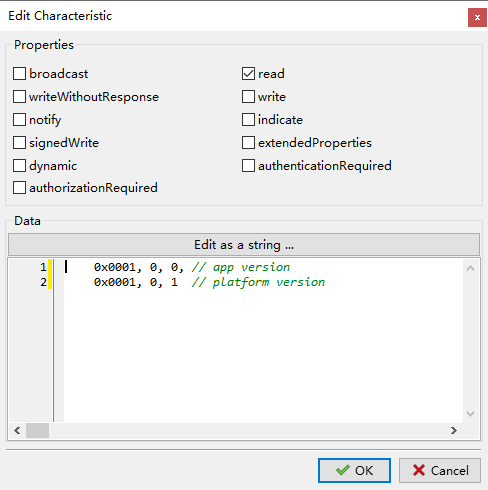
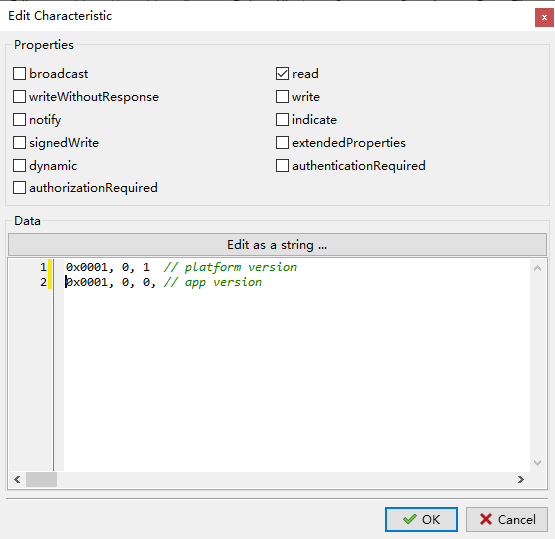
update

Changed region(s): [[0.0, 0.0, 1.0, 1.0], [0.4918, 0.1224, 0.7992, 0.3673], [0.9529, 0.0, 1.0, 0.0612]]

diff --git a/blog/fota_demo_zh/index.html b/blog/fota_demo_zh/index.html
@@ -257,39 +257,29 @@
     </ul>
   </li>
   <li>
-    <p>准备升级服务器</p>
+    <p>为 ING BLE 准备升级服务器</p>
 
-    <p>对于手机 App，可以直接使用 Python 内置的 HTTP 服务器作升级服务嚣。切换到解压出的文件夹，启动服务器，命令如下（各平台即可，以 WSL 为例）：</p>
+    <p>对于 ING BLE 的在线模式，直接使用 Python 内置的 HTTP 服务器作升级服务嚣。切换到解压出的文件夹，启动服务器，命令如下（各平台即可，以 WSL
+ 里的 Python 为例）：</p>
 
-    <div class="language-bash highlighter-rouge"><div class="highlight"><pre class="highlight"><code> <span class="nv">$ </span><span class="nb">ls</span> <span class="nt">-a</span>
- <span class="nb">.</span>  ..  body  full_app  toe
- <span class="nv">$ </span><span class="nb">sudo </span>python <span class="nt">-m</span> SimpleHTTPServer 80
- Serving HTTP on 0.0.0.0 port 80 ...
-</code></pre></div>    </div>
+    <ul>
+      <li>
+        <p>Python 3</p>
 
-    <p>对于 Web 版升级工具的在线模式，可能存在资源跨域访问的问题，可将以下代码保存为 CrossHTTPServer.py：</p>
+        <div class="language-bash highlighter-rouge"><div class="highlight"><pre class="highlight"><code>  <span class="nv">$ </span><span class="nb">ls</span> <span class="nt">-a</span>
+  <span class="nb">.</span>  ..  body  full_app  toe ...
+  <span class="nv">$ </span><span class="nb">sudo </span>python3 <span class="nt">-m</span> http.server 80
+</code></pre></div>        </div>
+      </li>
+      <li>
+        <p>Python 2</p>
 
-    <div class="language-python highlighter-rouge"><div class="highlight"><pre class="highlight"><code> <span class="c1">#!/usr/bin/env python
-</span> <span class="kn">import</span> <span class="nn">SimpleHTTPServer</span>
-
- <span class="k">class</span> <span class="nc">MyHTTPRequestHandler</span><span class="p">(</span><span class="n">SimpleHTTPServer</span><span class="o">.</span><span class="n">SimpleHTTPRequestHandler</span><span class="p">):</span>
-     <span class="k">def</span> <span class="nf">end_headers</span><span class="p">(</span><span class="bp">self</span><span class="p">):</span>
-         <span class="bp">self</span><span class="o">.</span><span class="n">send_my_headers</span><span class="p">()</span>
-         <span class="n">SimpleHTTPServer</span><span class="o">.</span><span class="n">SimpleHTTPRequestHandler</span><span class="o">.</span><span class="n">end_headers</span><span class="p">(</span><span class="bp">self</span><span class="p">)</span>
-     <span class="k">def</span> <span class="nf">send_my_headers</span><span class="p">(</span><span class="bp">self</span><span class="p">):</span>
-         <span class="bp">self</span><span class="o">.</span><span class="n">send_header</span><span class="p">(</span><span class="s">"Access-Control-Allow-Origin"</span><span class="p">,</span> <span class="s">"*"</span><span class="p">)</span>
-
- <span class="k">if</span> <span class="n">__name__</span> <span class="o">==</span> <span class="s">'__main__'</span><span class="p">:</span>
-     <span class="n">SimpleHTTPServer</span><span class="o">.</span><span class="n">test</span><span class="p">(</span><span class="n">HandlerClass</span><span class="o">=</span><span class="n">MyHTTPRequestHandler</span><span class="p">)</span>
-</code></pre></div>    </div>
-
-    <p>启动 CrossHTTPServer 服务器的命令如下：</p>
-
-    <div class="language-bash highlighter-rouge"><div class="highlight"><pre class="highlight"><code> <span class="nv">$ </span><span class="nb">ls</span> <span class="nt">-a</span>
- <span class="nb">.</span>  ..  CrossHTTPServer.py body  full_app  toe
- <span class="nv">$ </span><span class="nb">sudo </span>CrossHTTPServer 80
- Serving HTTP on 0.0.0.0 port 80 ...
-</code></pre></div>    </div>
+        <div class="language-bash highlighter-rouge"><div class="highlight"><pre class="highlight"><code>  <span class="nv">$ </span><span class="nb">ls</span> <span class="nt">-a</span>
+  <span class="nb">.</span>  ..  body  full_app  toe ...
+  <span class="nv">$ </span><span class="nb">sudo </span>python <span class="nt">-m</span> SimpleHTTPServer 80
+</code></pre></div>        </div>
+      </li>
+    </ul>
 
     <p>检查服务器是否正常工作（假设服务器 IP 地址为 192.168.100.102。下同）：</p>
 
@@ -300,6 +290,53 @@
      <span class="s2">"package"</span>: <span class="s2">"v1.zip"</span>
  <span class="o">}</span>
 </code></pre></div>    </div>
+  </li>
+  <li>
+    <p>为 Web 版工具准备升级服务器</p>
+
+    <p>对于 Web 版升级工具的在线模式，浏览器可能要求服务器使用 HTTPS，并允许资源跨域访问。</p>
+
+    <div class="note">
+ <strong>说明:</strong> 不同浏览器、同一浏览器的不同版本都有可能采用不同的安全策略，
+ 此处搭建的服务器可能无法正常工作（不为浏览器所接受）。如果遇到问题，需要使用浏览器的开发者工具进行调试、解决。
+ </div>
+
+    <ol>
+      <li>
+        <p>生成 HTTPS 证书</p>
+
+        <div class="language-bash highlighter-rouge"><div class="highlight"><pre class="highlight"><code> openssl req <span class="nt">-x509</span> <span class="nt">-newkey</span> rsa:2048 <span class="nt">-keyout</span> key.pem <span class="nt">-out</span> cert.pem <span class="nt">-days</span> 365
+</code></pre></div>        </div>
+
+        <p>此命令成功后，将在当前目录下生成 key.pem 和 cert.pem 两个文件。<strong>显然</strong>，此自行签发的证书无法为浏览器验证、接受。</p>
+
+        <div class="language-bash highlighter-rouge"><div class="highlight"><pre class="highlight"><code> <span class="nv">$ </span><span class="nb">ls</span> <span class="nt">-a</span>
+ <span class="nb">.</span>  ..  CrossHTTPServer.py  body  cert.pem  full_app  key.pem  toe
+</code></pre></div>        </div>
+      </li>
+      <li>
+        <p>启动 CrossHTTPServer 服务器</p>
+
+        <p>升级包内为 Python 2/3 分别准备了一个简单的 CrossHTTPServer。启动服务器，需要输入生成证书时的口令。</p>
+
+        <ul>
+          <li>
+            <p>Python 2 版本</p>
+
+            <div class="language-bash highlighter-rouge"><div class="highlight"><pre class="highlight"><code>  <span class="nv">$ </span><span class="nb">sudo </span>python CrossHTTPServer.py
+  Enter PEM pass phrase: ...
+</code></pre></div>            </div>
+          </li>
+          <li>
+            <p>Python 3 版本</p>
+
+            <div class="language-bash highlighter-rouge"><div class="highlight"><pre class="highlight"><code>  <span class="nv">$ </span><span class="nb">sudo </span>python3 CrossHTTPServer.py
+  Enter PEM pass phrase: ...
+</code></pre></div>            </div>
+          </li>
+        </ul>
+      </li>
+    </ol>
   </li>
 </ol>
 
@@ -397,7 +434,7 @@
   <li>
     <p>在线升级模式</p>
 
-    <p>进入“在线”页面，填入“http://192.168.100.102/body”，重复上述步骤，可将版本回退到“Body”版本。</p>
+    <p>进入“在线”页面，填入“https://192.168.100.102/body”，重复上述步骤，可将版本回退到“Body”版本。</p>
   </li>
 </ol>
 

diff --git a/user_guide/tutorial.html b/user_guide/tutorial.html
@@ -21,10 +21,10 @@
   <meta name="twitter:description" content="This is the user guide of INGCHIPS SDK." />
   <meta name="twitter:image" content="./img/sdk_overview.png" />
 
-<meta name="author" content="v1.2.2" />
+<meta name="author" content="v1.2.3" />
 
 
-<meta name="date" content="2020-09-08" />
+<meta name="date" content="2020-09-09" />
 
   <meta name="viewport" content="width=device-width, initial-scale=1" />
   <meta name="apple-mobile-web-app-capable" content="yes" />
@@ -445,7 +445,7 @@ Figure 3.3: Choose Project Type
 <li>Select <code>Typical</code></li>
 <li>Select <code>Legacy</code> advertising type</li>
 </ol>
-<p><code>{block-on-ext-adv, note-text, type='rmdcaution'} Phones that support BLE 5.x extended advertising are still rare at present (2021-09-06) even if BLE 5.0 is declared as "supported",  so we use legacy advertising for better compatibility. Furthermore, legacy advertising can be changed to BLE 5.x extended advertising by toggling a single bit.</code></p>
+<p><code>{block-on-ext-adv, note-text, type='rmdcaution'} Phones that support BLE 5.x extended advertising are still rare at present (2021-09-09) even if BLE 5.0 is declared as "supported",  so we use legacy advertising for better compatibility. Furthermore, legacy advertising can be changed to BLE 5.x extended advertising by toggling a single bit.</code></p>
 <p>Then press <code>Next</code> to proceed to the next page, <code>Role of Your Device</code>.</p>
 </div>
 <div id="role-of-your-device-page" class="section level3">
@@ -859,8 +859,8 @@ which can be found on
 open this dialog). Suppose platform version is 1.0.1<a href="#fn15" class="footnote-ref" id="fnref15"><sup>15</sup></a>,
 and we would like our app’s version to
 be 1.0.0, then we set this characteristic’s value to (Fig <a href="tutorial.html#fig:ch1-ota-version">3.21</a>):</p>
-<div class="sourceCode" id="cb6"><pre class="sourceCode c"><code class="sourceCode c"><span id="cb6-1"><a href="tutorial.html#cb6-1"></a><span class="bn">0x0001</span>, <span class="dv">0</span>, <span class="dv">0</span>, <span class="co">// app version</span></span>
-<span id="cb6-2"><a href="tutorial.html#cb6-2"></a><span class="bn">0x0001</span>, <span class="dv">0</span>, <span class="dv">1</span>  <span class="co">// platform version</span></span></code></pre></div></li>
+<div class="sourceCode" id="cb6"><pre class="sourceCode c"><code class="sourceCode c"><span id="cb6-1"><a href="tutorial.html#cb6-1"></a><span class="bn">0x0001</span>, <span class="dv">0</span>, <span class="dv">1</span>  <span class="co">// platform version</span></span>
+<span id="cb6-2"><a href="tutorial.html#cb6-2"></a><span class="bn">0x0001</span>, <span class="dv">0</span>, <span class="dv">0</span>, <span class="co">// app version</span></span></code></pre></div></li>
 <li><p>FOTA Control</p>
 <p>This is control point during update. Set its value to <code>0</code> (i.e. <code>OTA_STATUS_DISABLED</code>),
 which is the initial status of FOTA.</p></li>
@@ -1297,7 +1297,7 @@ Figure 3.26: Througput on an Android Phone
 <li><p>Generic Output</p>
 <p>By this characteristic, peripheral device send data to central device.</p>
 <p>This characteristic has a <code>Client Characteristic Configuration</code> descriptor.</p></li>
-<li><p>Generic Output</p>
+<li><p>Generic Input</p>
 <p>By this characteristic, central device send data to peripheral device.</p></li>
 </ul>
 <p>Download <code>central_throughput</code> to another board. This app has a UART command line interface to

diff --git a/user_guide/revision-history.html b/user_guide/revision-history.html
@@ -21,10 +21,10 @@
   <meta name="twitter:description" content="This is the user guide of INGCHIPS SDK." />
   <meta name="twitter:image" content="./img/sdk_overview.png" />
 
-<meta name="author" content="v1.2.2" />
+<meta name="author" content="v1.2.3" />
 
 
-<meta name="date" content="2020-09-08" />
+<meta name="date" content="2020-09-09" />
 
   <meta name="viewport" content="width=device-width, initial-scale=1" />
   <meta name="apple-mobile-web-app-capable" content="yes" />
@@ -397,34 +397,39 @@ code span.wa { color: #60a0b0; font-weight: bold; font-style: italic; } /* Warni
 <tr class="header">
 <th align="left">Version</th>
 <th align="left">Notes</th>
-<th align="center">Date</th>
+<th align="left">Date</th>
 </tr>
 </thead>
 <tbody>
 <tr class="odd">
 <td align="left">1.0</td>
 <td align="left">Initial release</td>
-<td align="center">2020-07-28</td>
+<td align="left">2020-07-28</td>
 </tr>
 <tr class="even">
 <td align="left">1.1</td>
 <td align="left">Add Python downloader</td>
-<td align="center">2020-10-10</td>
+<td align="left">2020-10-10</td>
 </tr>
 <tr class="odd">
 <td align="left">1.2</td>
 <td align="left">Update API descriptions</td>
-<td align="center">2020-07-05</td>
+<td align="left">2020-07-05</td>
 </tr>
 <tr class="even">
 <td align="left">1.2.1</td>
 <td align="left">Update memory dump section</td>
-<td align="center">2020-08-02</td>
+<td align="left">2020-08-02</td>
 </tr>
 <tr class="odd">
 <td align="left">1.2.2</td>
-<td align="left">Fix typo errors, other minor updates</td>
-<td align="center">2020-09-08</td>
+<td align="left">Fix typos, other minor updates</td>
+<td align="left">2020-09-08</td>
+</tr>
+<tr class="even">
+<td align="left">1.2.3</td>
+<td align="left">Fix order of versions in “Device With FOTA” and typo</td>
+<td align="left">2020-09-09</td>
 </tr>
 </tbody>
 </table>

diff --git a/docs/mass_production/prod_suite/index.html b/docs/mass_production/prod_suite/index.html
@@ -479,11 +479,25 @@
 
 <h3 id="21-安装">2.1 安装</h3>
 
-<p>从 <a href="https://github.com/ingchips/doc_release/releases/download/v1.0/ingchips_production_suite_setup_win_x64_v0.9.exe">Github</a> 或者 <a href="https://download.fastgit.org/ingchips/doc_release/releases/download/v1.0/ingchips_production_suite_setup_win_x64_v0.9.exe">镜像</a>
+<ul>
+  <li>Production Suite</li>
+</ul>
+
+<p>从 <a href="https://github.com/ingchips/doc_release/releases/download/v1.0/ingchips_production_suite_setup_win_x64_v0.9.1.exe">Github</a> 或者 <a href="https://download.fastgit.org/ingchips/doc_release/releases/download/v1.0/ingchips_production_suite_setup_win_x64_v0.9.1.exe">镜像</a>
 获取最新的软件，直接安装。</p>
+
+<ul>
+  <li>串口驱动</li>
+</ul>
 
 <p>将量产板连接到 PC 后，如果未能自动识别并安装驱动，手动 <a href="https://ftdichip.com/Drivers/vcp-drivers/">下载</a> 并安装串口驱动。
 驱动程序正确安装后，可从设备管理器中看到 16 个串口。</p>
+
+<ul>
+  <li>PowerShell</li>
+</ul>
+
+<p>PowerShell 是微软开发的开源软件，可以从 <a href="ms-windows-store://pdp/?ProductId=9mz1snwt0n5d">Windows 10 商店</a>安装，或者手动 <a href="https://github.com/PowerShell/PowerShell/releases">下载</a> 安装。</p>
 
 <h3 id="22-准备工作">2.2 准备工作</h3>
 

diff --git a/user_guide/index.html b/user_guide/index.html
@@ -21,10 +21,10 @@
   <meta name="twitter:description" content="This is the user guide of INGCHIPS SDK." />
   <meta name="twitter:image" content="./img/sdk_overview.png" />
 
-<meta name="author" content="v1.2.2" />
+<meta name="author" content="v1.2.3" />
 
 
-<meta name="date" content="2020-09-08" />
+<meta name="date" content="2020-09-09" />
 
   <meta name="viewport" content="width=device-width, initial-scale=1" />
   <meta name="apple-mobile-web-app-capable" content="yes" />
@@ -392,8 +392,8 @@ code span.wa { color: #60a0b0; font-weight: bold; font-style: italic; } /* Warni
             <section class="normal" id="section-">
 <div id="header">
 <h1 class="title">INGCHIPS SDK User Guide</h1>
-<p class="author"><em>v1.2.2</em></p>
-<p class="date"><em>2020-09-08</em></p>
+<p class="author"><em>v1.2.3</em></p>
+<p class="date"><em>2020-09-09</em></p>
 </div>
 <div id="welcome" class="section level1">
 <h1><span class="header-section-number">Chapter 1</span> Welcome</h1>

diff --git a/user_guide/api-ref.html b/user_guide/api-ref.html
@@ -21,10 +21,10 @@
   <meta name="twitter:description" content="This is the user guide of INGCHIPS SDK." />
   <meta name="twitter:image" content="./img/sdk_overview.png" />
 
-<meta name="author" content="v1.2.2" />
+<meta name="author" content="v1.2.3" />
 
 
-<meta name="date" content="2020-09-08" />
+<meta name="date" content="2020-09-09" />
 
   <meta name="viewport" content="width=device-width, initial-scale=1" />
   <meta name="apple-mobile-web-app-capable" content="yes" />

diff --git a/user_guide/core-tools.html b/user_guide/core-tools.html
@@ -21,10 +21,10 @@
   <meta name="twitter:description" content="This is the user guide of INGCHIPS SDK." />
   <meta name="twitter:image" content="./img/sdk_overview.png" />
 
-<meta name="author" content="v1.2.2" />
+<meta name="author" content="v1.2.3" />
 
 
-<meta name="date" content="2020-09-08" />
+<meta name="date" content="2020-09-09" />
 
   <meta name="viewport" content="width=device-width, initial-scale=1" />
   <meta name="apple-mobile-web-app-capable" content="yes" />

diff --git a/user_guide/dive-into-sdk.html b/user_guide/dive-into-sdk.html
@@ -21,10 +21,10 @@
   <meta name="twitter:description" content="This is the user guide of INGCHIPS SDK." />
   <meta name="twitter:image" content="./img/sdk_overview.png" />
 
-<meta name="author" content="v1.2.2" />
+<meta name="author" content="v1.2.3" />
 
 
-<meta name="date" content="2020-09-08" />
+<meta name="date" content="2020-09-09" />
 
   <meta name="viewport" content="width=device-width, initial-scale=1" />
   <meta name="apple-mobile-web-app-capable" content="yes" />

diff --git a/user_guide/intro.html b/user_guide/intro.html
@@ -21,10 +21,10 @@
   <meta name="twitter:description" content="This is the user guide of INGCHIPS SDK." />
   <meta name="twitter:image" content="./img/sdk_overview.png" />
 
-<meta name="author" content="v1.2.2" />
+<meta name="author" content="v1.2.3" />
 
 
-<meta name="date" content="2020-09-08" />
+<meta name="date" content="2020-09-09" />
 
   <meta name="viewport" content="width=device-width, initial-scale=1" />
   <meta name="apple-mobile-web-app-capable" content="yes" />
